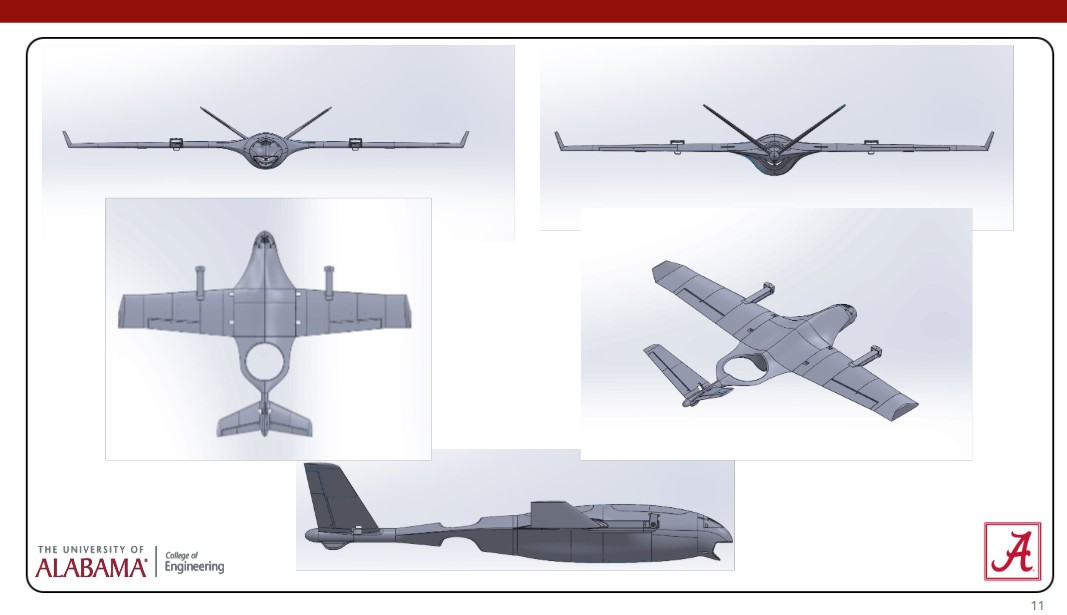
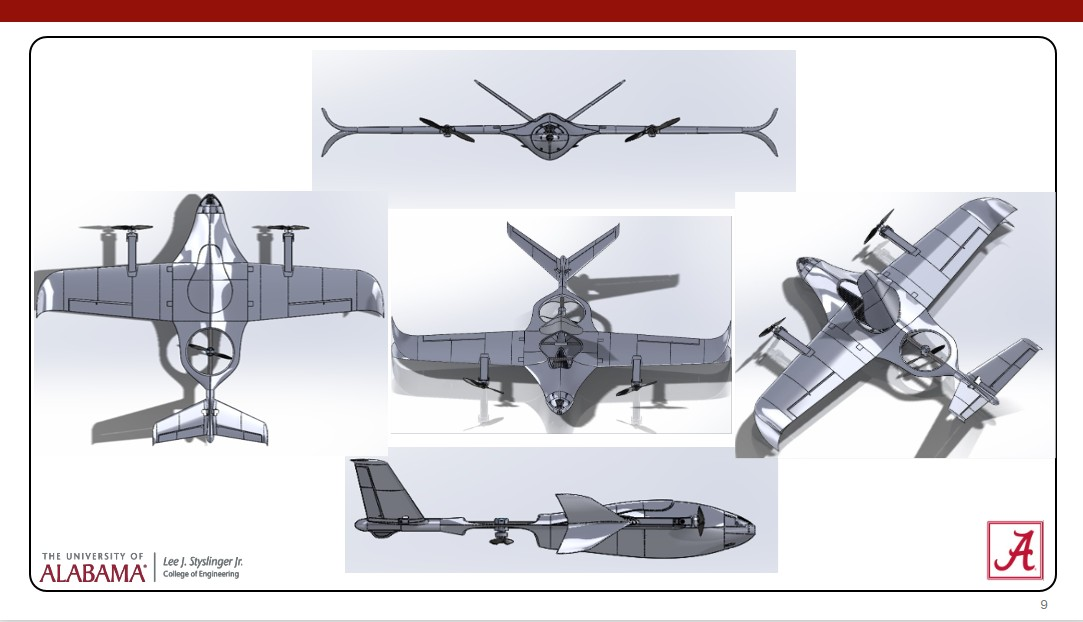
senior design pics CDR update after claude update

diff --git a/script.js b/script.js
@@ -114,6 +114,9 @@ projects: [
     timeframe: "Sep 2025 — Present",
     image: "assets/drone.jpg",
     images: [
+    "assets/ffvtol4.jpg",
+    "assets/subsystem1.jpg",
+    "assets/subsystem2.jpg",
     "assets/ffvtol.jpg",
     "assets/ffvtol1.jpg",
     "assets/ffvtol2.jpg",
